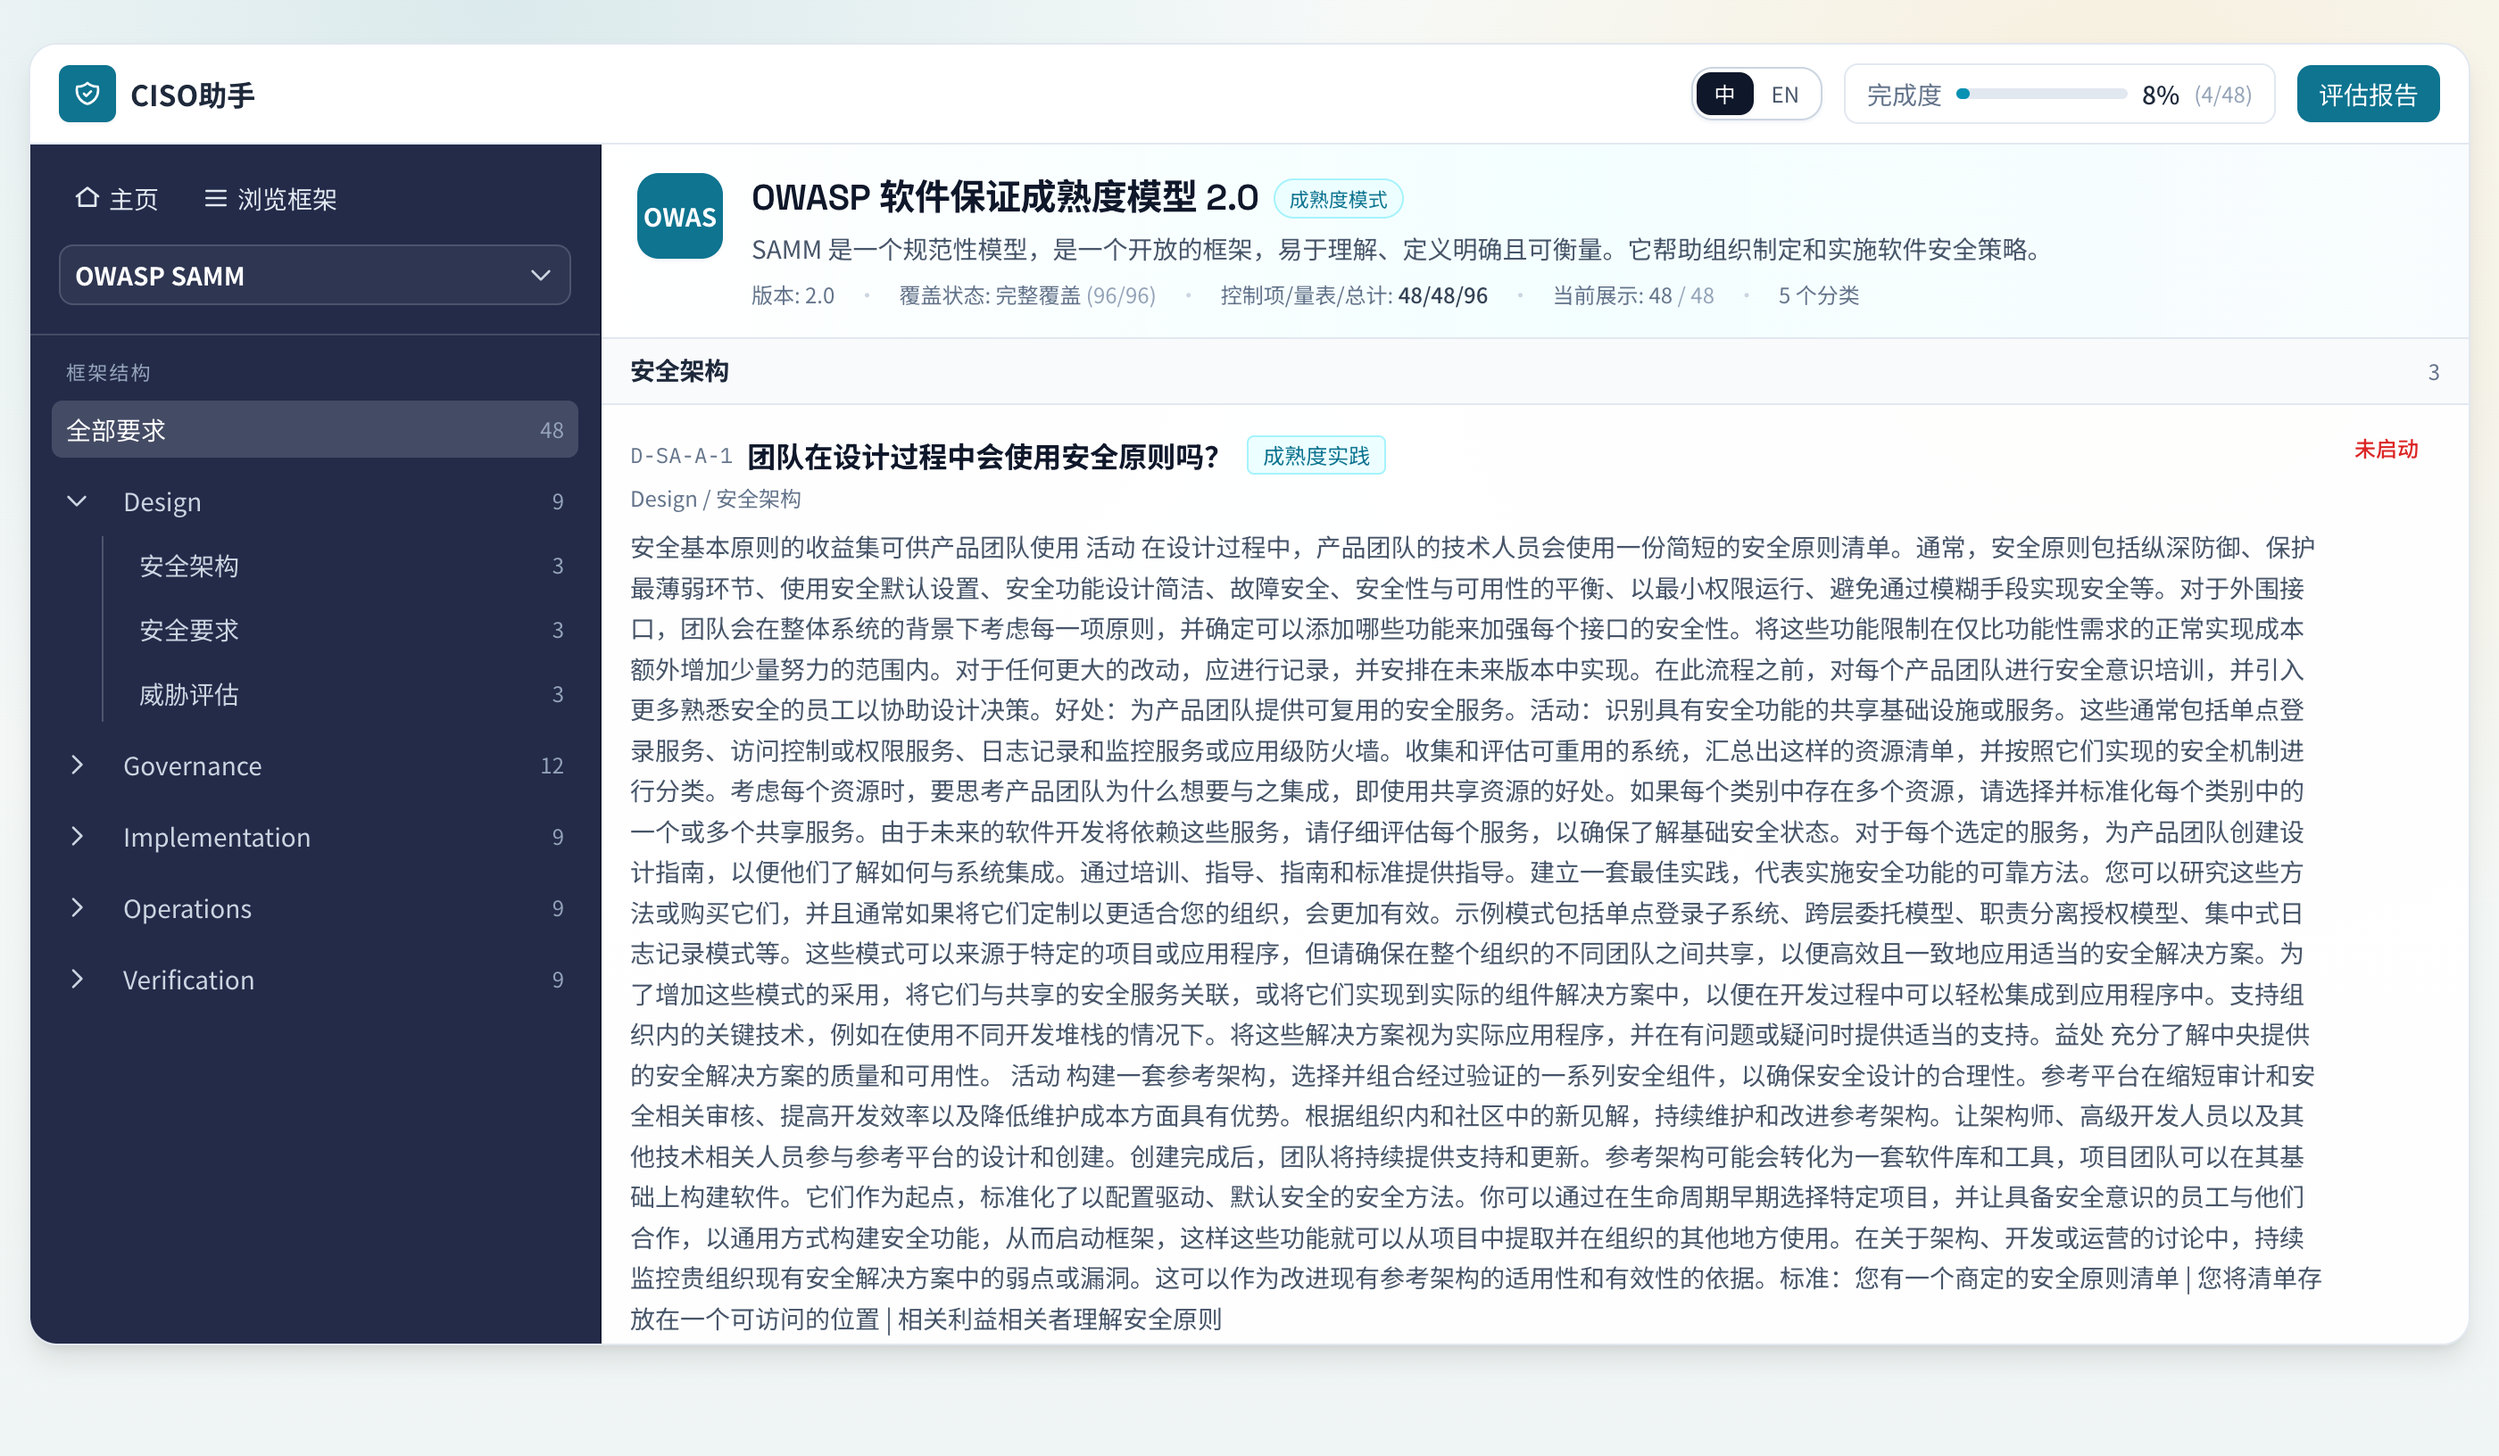
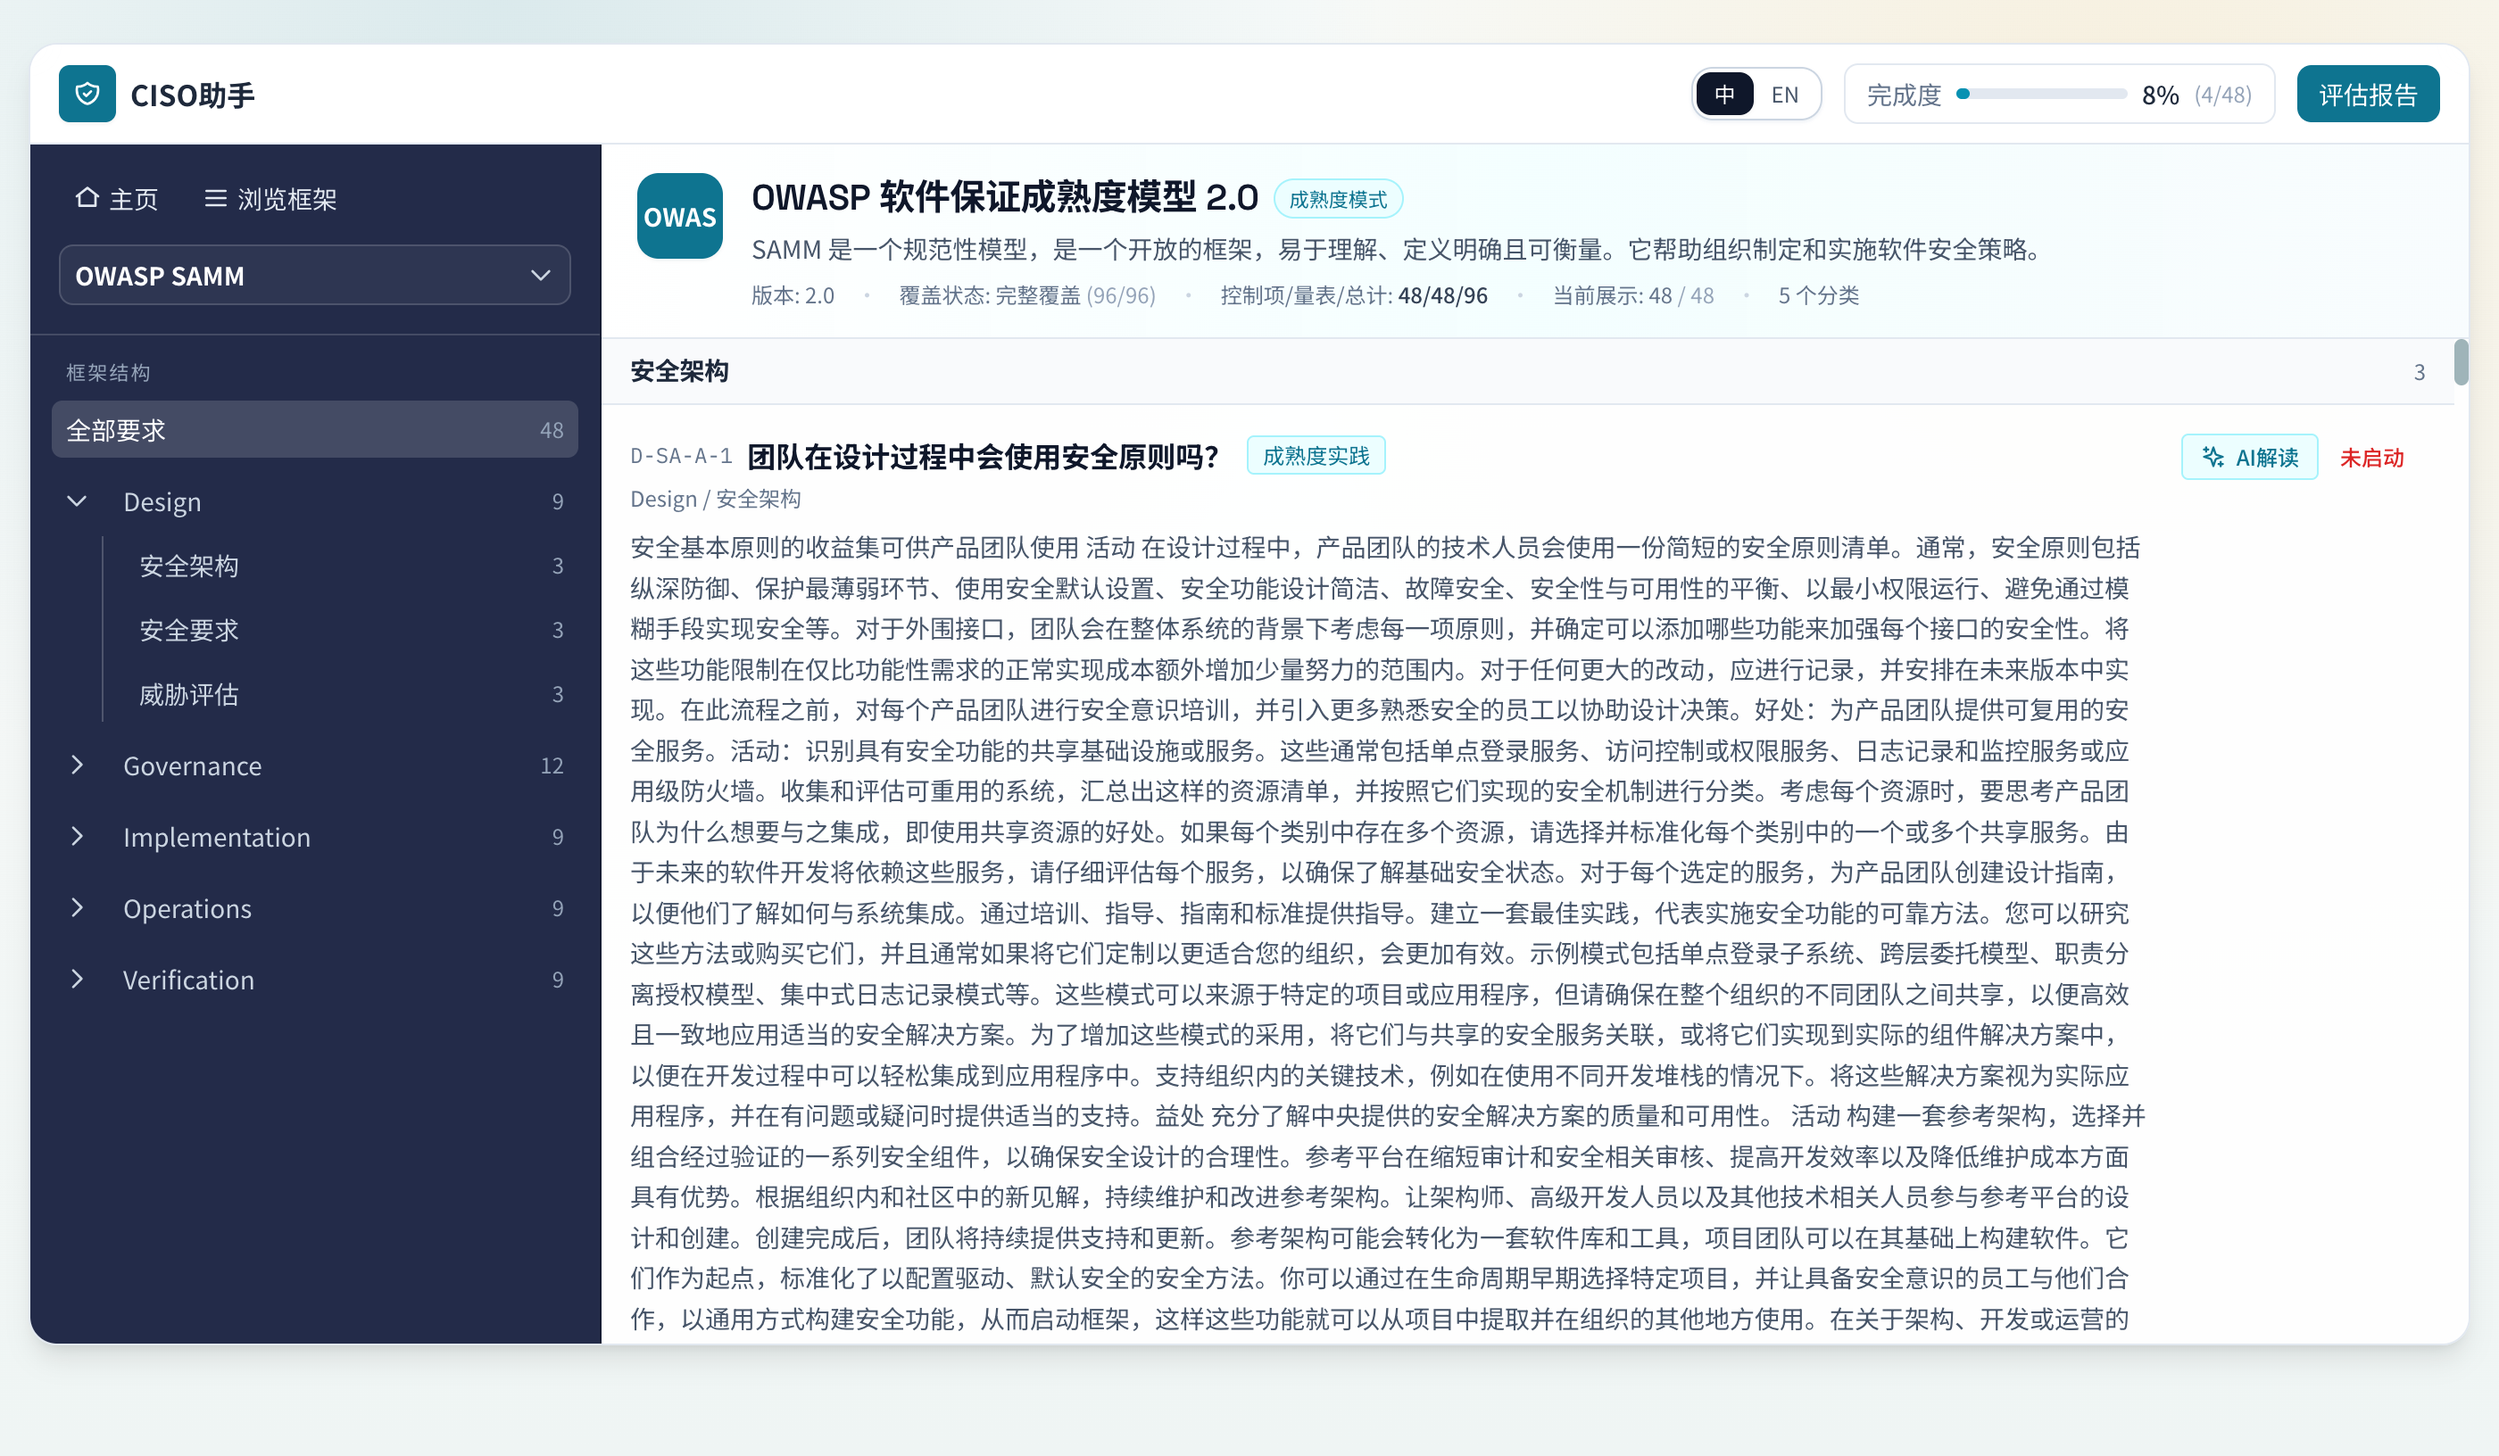
docs(readme): refresh live feature screenshots and add hotspot walkthrough

Changed region(s): [[0.2486, 0.375, 0.9321, 0.9375], [0.87, 0.2812, 0.9632, 0.3438], [0.9632, 0.25, 0.9943, 0.2812]]

diff --git a/README.md b/README.md
@@ -189,13 +189,49 @@ npm run start
 
 ![框架页评估](docs/screenshots/framework-page.png)
 
-### 2) 报告页（进度与分布）
+功能热点：
+- 左侧始终保留框架导航，快速切换分类与子分类。
+- 右侧聚焦末级控制项，直接完成“评估状态 + 评估备注”。
+- 不再依赖单独答题页，框架页即评估入口。
+
+### 2) 控制项 AI 解读（右侧抽屉）
+
+![控制项AI解读](docs/screenshots/ai-interpret.png)
+
+功能热点：
+- 每个控制项右侧一个 AI 解读按钮 + 右侧抽屉面板。
+- 不打断操作流。用户不用跳转，始终在当前控制项上下文中。
+- 减少认知负担。看完解读可直接改“评估状态”和“评估备注”。
+- 内置针对性优化的 prompt 模板输出结构化内容，帮助快速理解控制项。
+- 支持一键写入评估备注，减少重复录入。
+
+### 3) 全局 AI 配置弹窗（一次配置，全局复用）
+
+![AI配置弹窗](docs/screenshots/ai-config-modal.png)
+
+功能热点：
+- AI 报告页与 AI 解读共享同一配置入口。
+- 一次配置、全局复用，避免每个页面重复填 key。
+- 支持 `OpenAI / Anthropic / Ollama / DeepSeek / MiniMax / Kimi / 通用适配`。
+- 通用适配支持多协议（含 `anthropic-messages`），可接官方与中转平台。
+
+### 4) 报告页（进度与分布）
 
 ![报告页](docs/screenshots/report-page.png)
 
-### 3) AI 安全专家（配置与分析）
+功能热点：
+- 汇总覆盖率、状态分布、成熟度指数，便于管理层快速查看现状。
+- 支持 `JSON/CSV` 导出，便于审计归档与二次分析。
+- 一键进入 AI 安全专家，直接基于已评估结果生成改进方案。
+
+### 5) AI 安全专家（方案生成与报告导出）
 
 ![AI 安全专家](docs/screenshots/ai-assistant.png)
+
+功能热点：
+- 结合企业行业、规模、预算、KPI 与目标周期生成分阶段行动计划。
+- 输出面向 CISO 的结构化建议（差距、优先级、90天路线、预算分配）。
+- 支持导出 HTML 报告，可直接用于汇报与复盘。
 
 ## AI 评估助手配置
 
